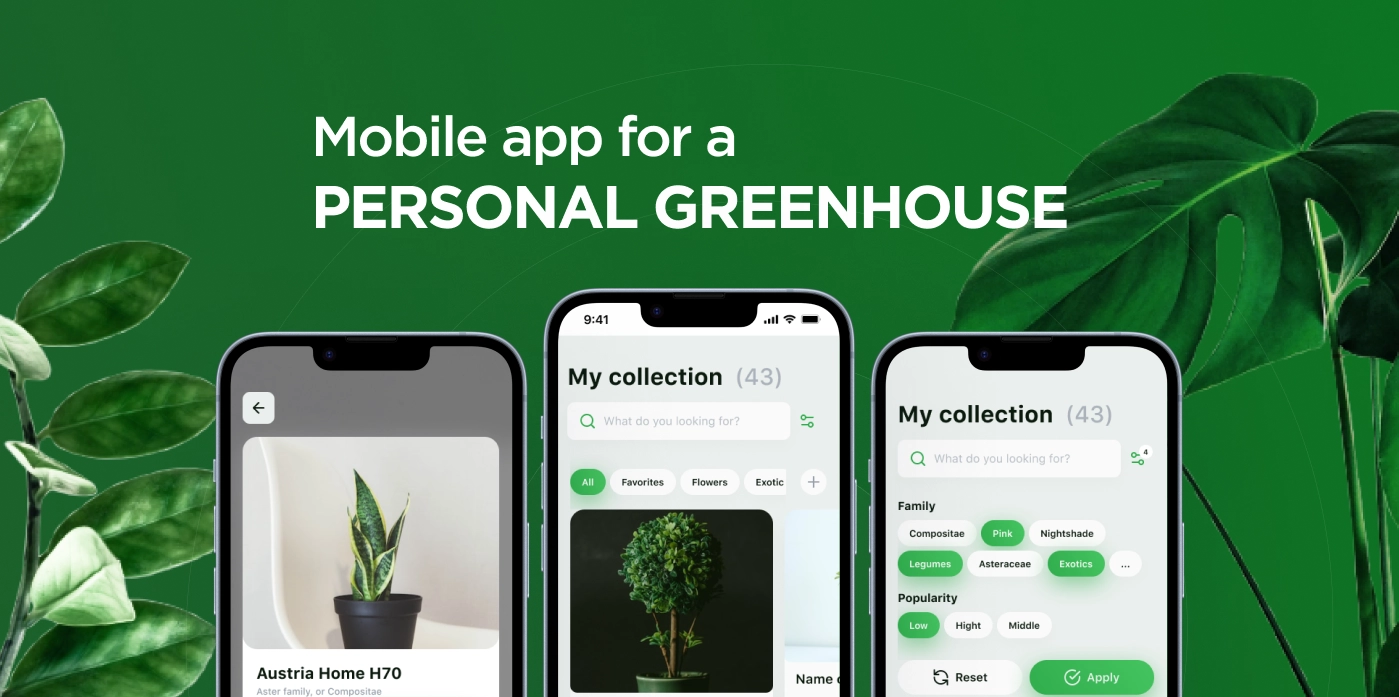
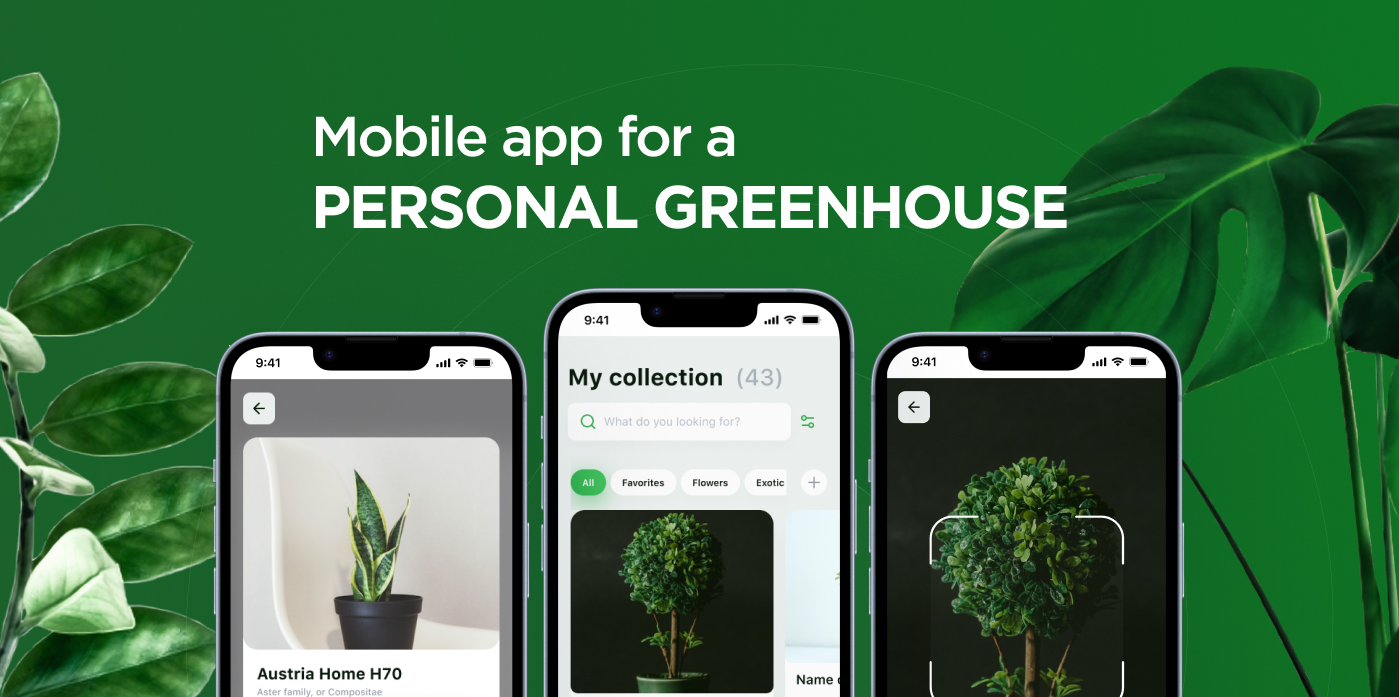
Added plants project

diff --git a/client/src/db/projects.js b/client/src/db/projects.js
@@ -539,6 +539,133 @@ const projectsData = [
 	},
 	{
 		isVisible: true,
+		name: "PlantID",
+		secondName:
+			"Personal plant collection app with AI scan and digital greenhouse",
+		subtitle: "Scan, identify, and grow your digital plant library",
+		poster: getImage(typeImage.previews, "plants"),
+		category: categoriesProjects.design.newDesign,
+		type: typesProjects.mobileApp,
+		date: "2025",
+		sources: {
+			demo: null,
+			code: null,
+			design: "https://www.figma.com/design/9bOPmXEa0YZGUEo5kK5bG7/Plants?node-id=0-1&t=xMdiSHd0sSQ2zf3p-1",
+		},
+		badges: [
+			{
+				label: technologies.figma,
+				color: colorsTechnologies.figma,
+			},
+			{
+				label: "UI/UX Design",
+				color: "#3DAA5C",
+				textColor: "white",
+			},
+			{
+				label: "Prototyping",
+				color: "#2E7D32",
+				textColor: "white",
+			},
+		],
+		technologies: [technologies.figma],
+		targets: [
+			"Design an intuitive mobile experience for plant enthusiasts to scan, identify, and collect plants digitally",
+			"Create a seamless scan-to-identify flow with real-time scanning animation and instant plant card reveal",
+			"Build a personal digital greenhouse with collection management, filtering by family and popularity, and gamified rewards",
+			"Develop a consistent design system with color palette, typography scale, reusable UI kit components, and two themes",
+			"Deliver a fully clickable Figma prototype covering all key flows in both light and dark themes",
+		],
+		tasks: [
+			"Analyze visual references from leading plant and collection apps to define the design direction and UX patterns",
+			"Design a UX wireframe prototype covering core screens: collection, scan flow, empty state, filter panel, and rewards",
+			"Build a UI kit with all reusable components: inputs, buttons, navigation bar, plant cards, headers, reward cards, and pagination",
+			"Define a color system with primary green, semantic colors (blue, red), and full gray scales for both light and dark themes",
+			"Apply the design system to produce polished UI screens in both light and dark themes across all flows",
+		],
+		shortenedDescription: [
+			"plants is a mobile app concept for plant lovers — scan any plant with your camera, get instant identification, and add it to your personal digital greenhouse",
+			"The project covers the complete design process: references, UX prototype, a full UI kit with color system, and final UI screens in light and dark themes",
+			"The result is a clickable Figma prototype with 40+ screens spanning collection management, AI scan flow, filtering, empty states, and a gamified reward system",
+		],
+		description: [
+			{
+				type: typeElementDescription.p,
+				data: "The project started with a reference study phase — analyzing existing plant identification and collection apps to map out UX patterns, visual language, and feature gaps that informed the design direction.",
+			},
+			{
+				type: typeElementDescription.img,
+				data: getImage(typeImage.projects, "references", "plants"),
+			},
+			{
+				type: typeElementDescription.p,
+				data: "Based on the research, a low-fidelity UX prototype was built to validate the core flows before moving to visual design. It covered the main screens: collection overview, scan entry, empty state with onboarding, filter panel, and upcoming rewards.",
+			},
+			{
+				type: typeElementDescription.img,
+				data: getImage(typeImage.projects, "wireframe", "plants"),
+			},
+			{
+				type: typeElementDescription.p,
+				data: "A structured UI kit was assembled as the foundation of the design system, including all reusable components built for both themes:",
+			},
+			{
+				type: typeElementDescription.list,
+				data: [
+					"Typography scale — 6 size levels across light, dark, and accent (green) variants",
+					"Input fields — search with icon, placeholder, and active states",
+					"Navigation bar — 5-tab layout with active state and centered scan button",
+					"Plant cards — grid and list views with photo, name, stats, and action menu",
+					"Buttons — primary (green), secondary, and rescan variants",
+					"Reward cards — progress bar, step label, and plant icon in collapsed and expanded states",
+					"Header — collection title with count and search bar in three visual variants",
+					"Icons, menu items, and pagination controls",
+				],
+			},
+			{
+				type: typeElementDescription.img,
+				data: getImage(typeImage.projects, "ui-kit", "plants"),
+			},
+			{
+				type: typeElementDescription.p,
+				data: "The color system was defined with a primary green (solid and gradient), semantic blue for info states, semantic red for errors and destructive actions, white, and a full 10-step gray scale adapted separately for light and dark themes.",
+			},
+			{
+				type: typeElementDescription.img,
+				data: getImage(typeImage.projects, "colors", "plants"),
+			},
+			{
+				type: typeElementDescription.p,
+				data: "The light theme UI screens bring together the full design system across the collection flow: card and list views, swipe actions (share, delete), filter panel with family and popularity selectors, and the empty state with reward progress visible below.",
+			},
+			{
+				type: typeElementDescription.img,
+				data: getImage(typeImage.projects, "light-interface", "plants"),
+			},
+			{
+				type: typeElementDescription.p,
+				data: "The scan flow was designed as a dedicated camera experience: the user frames a plant inside a corner-bracket viewfinder, triggers the scan, watches a horizontal progress animation, and receives an identification card with the plant name, family, and two actions — 'More info' or 'Add to collection'. A 'Rescan' option is always available.",
+			},
+			{
+				type: typeElementDescription.img,
+				data: getImage(typeImage.projects, "light-scan", "plants"),
+			},
+			{
+				type: typeElementDescription.p,
+				data: "All screens were fully reproduced in the dark theme, maintaining visual consistency while adapting backgrounds, text colors, and component states to the dark gray scale defined in the color system.",
+			},
+			{
+				type: typeElementDescription.img,
+				data: getImage(typeImage.projects, "dark-interface", "plants"),
+			},
+			{
+				type: typeElementDescription.img,
+				data: getImage(typeImage.projects, "dark-scan", "plants"),
+			},
+		],
+	},
+	{
+		isVisible: true,
 		name: "Infurtex",
 		secondName: "Service for UI/UX design testing",
 		subtitle: "System for testing Design solutions",
